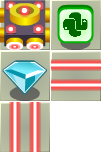
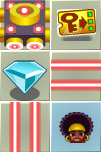
First level working with new loading

Changed region(s): [[0.505, 0.6579, 1.0, 1.0], [0.5644, 0.0263, 0.9505, 0.3421]]

diff --git a/lucy/dist/game.js b/lucy/dist/game.js
@@ -230,17 +230,16 @@ var KodingSpy;
         Controller.CollisionController = CollisionController;
     })(Controller = KodingSpy.Controller || (KodingSpy.Controller = {}));
 })(KodingSpy || (KodingSpy = {}));
+var LucyGame = KodingSpy.Game;
 var KodingSpy;
 (function (KodingSpy) {
     var Controller;
     (function (Controller) {
-        var TileCoordinate = KodingSpy.Model.TileCoordinate;
-        var TileSet = KodingSpy.Model.Tiles;
         var LevelController = (function () {
             function LevelController(game, levelName) {
                 this.game = game;
                 this.levelName = levelName;
-                this.spawnPosition = new TileCoordinate(8, 9);
+                this.spawnPosition = new KodingSpy.Model.TileCoordinate(8, 9);
             }
             LevelController.prototype.create = function () {
                 this.map = this.game.add.tilemap(this.levelName);
@@ -252,7 +251,7 @@ var KodingSpy;
                 this.buildItems();
             };
             LevelController.prototype.buildItems = function () {
-                var itemSet = new TileSet().items;
+                var itemSet = new KodingSpy.Model.Tiles().items;
                 for (var y = 0; y < 12; y++) {
                     for (var x = 0; x < 16; x++) {
                         var tile = this.map.getTile(x, y, 'Collision', true);
@@ -262,20 +261,23 @@ var KodingSpy;
                                 this.game.add.sprite(tile.worldX, tile.worldY, 'floor');
                             }
                             if (tileType == "spawn") {
-                                this.spawnPosition = new TileCoordinate(x, y);
+                                this.spawnPosition = new KodingSpy.Model.TileCoordinate(x, y);
                             }
                             else {
                                 var sprite;
+                                var shouldCollide = false;
                                 if (tileType == "wall") {
                                     sprite = this.game.add.sprite(tile.worldX, tile.worldY, 'empty');
+                                    shouldCollide = true;
                                 }
                                 else {
                                     sprite = this.game.add.sprite(tile.worldX, tile.worldY, 'items');
                                     var itemData = itemSet[tileType];
                                     sprite.animations.add(itemData.name, Phaser.Animation.generateFrameNames(itemData.name, 0, itemData.frames - 1, '', 4), 24, true, false);
                                     sprite.animations.play(itemData.name);
+                                    shouldCollide = itemData.collidable;
                                 }
-                                if (itemData.collidable) {
+                                if (shouldCollide) {
                                     this.game.collisionController.enableCollider(sprite, tileType);
                                 }
                             }
@@ -497,6 +499,7 @@ var KodingSpy;
                 tiles['laserH'] = new TileData('laserBeamHorizontal', 14, true);
                 tiles['laserV'] = new TileData('laserBeamVertical', 14, true);
                 tiles['key'] = new TileData('python', 30, true);
+                tiles['cannon'] = new TileData('cannon', 1, true);
                 this.items = tiles;
             }
             return Tiles;

diff --git a/lucy/dev/game/controllers/LevelController.ts b/lucy/dev/game/controllers/LevelController.ts
@@ -1,19 +1,18 @@
+import LucyGame = KodingSpy.Game;
+
 module KodingSpy.Controller {
-    import LucyGame = KodingSpy.Game;
-    import TileCoordinate = KodingSpy.Model.TileCoordinate;
-    import TileSet = KodingSpy.Model.Tiles;
 
     export class LevelController {
 
         game: LucyGame;
         levelName: string;
         map: Phaser.Tilemap;
-        spawnPosition: TileCoordinate;
+        spawnPosition: KodingSpy.Model.TileCoordinate;
 
         constructor(game: LucyGame, levelName: string) {
             this.game = game;
             this.levelName = levelName;
-            this.spawnPosition = new TileCoordinate(8, 9);
+            this.spawnPosition = new KodingSpy.Model.TileCoordinate(8, 9);
         }
 
         create() {
@@ -30,7 +29,7 @@ module KodingSpy.Controller {
         }
 
         buildItems(): void {
-            var itemSet = new TileSet().items;
+            var itemSet = new KodingSpy.Model.Tiles().items;
 
             for (var y = 0; y < 12; y++) {
                 for (var x = 0; x < 16; x++) {
@@ -41,12 +40,14 @@ module KodingSpy.Controller {
                             this.game.add.sprite(tile.worldX, tile.worldY, 'floor');
                         }
                         if (tileType == "spawn") {
-                            this.spawnPosition = new TileCoordinate(x, y);
+                            this.spawnPosition = new KodingSpy.Model.TileCoordinate(x, y);
                         }
                         else {
                             var sprite;
+                            var shouldCollide = false;
                             if (tileType == "wall") {
                                 sprite = this.game.add.sprite(tile.worldX, tile.worldY, 'empty');
+                                shouldCollide = true;
                             }
                             else {
                                 sprite = this.game.add.sprite(tile.worldX, tile.worldY, 'items');
@@ -54,8 +55,9 @@ module KodingSpy.Controller {
 
                                 sprite.animations.add(itemData.name, Phaser.Animation.generateFrameNames(itemData.name, 0, itemData.frames - 1, '', 4), 24, true, false);
                                 sprite.animations.play(itemData.name);
+                                shouldCollide = itemData.collidable;
                             }
-                            if (itemData.collidable) {
+                            if (shouldCollide) {
                                 this.game.collisionController.enableCollider(sprite, tileType);
                             }
                         }

diff --git a/lucy/dev/game/models/Tiles.ts b/lucy/dev/game/models/Tiles.ts
@@ -25,6 +25,7 @@ module KodingSpy.Model {
 			tiles['laserH'] = new TileData('laserBeamHorizontal', 14, true);
 			tiles['laserV'] = new TileData('laserBeamVertical', 14, true);
 			tiles['key'] = new TileData('python', 30, true);
+			tiles['cannon'] = new TileData('cannon', 1, true);
 			
 			this.items = tiles;
 		}
